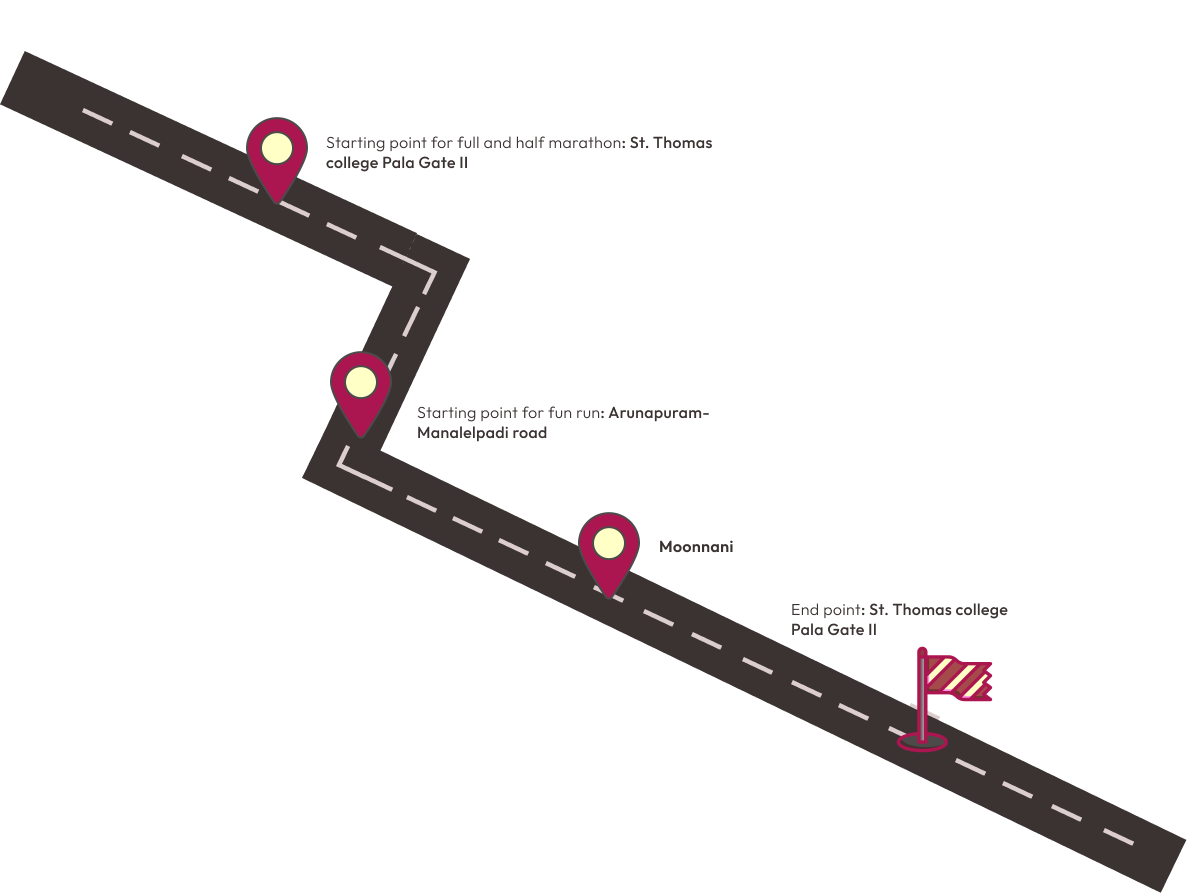
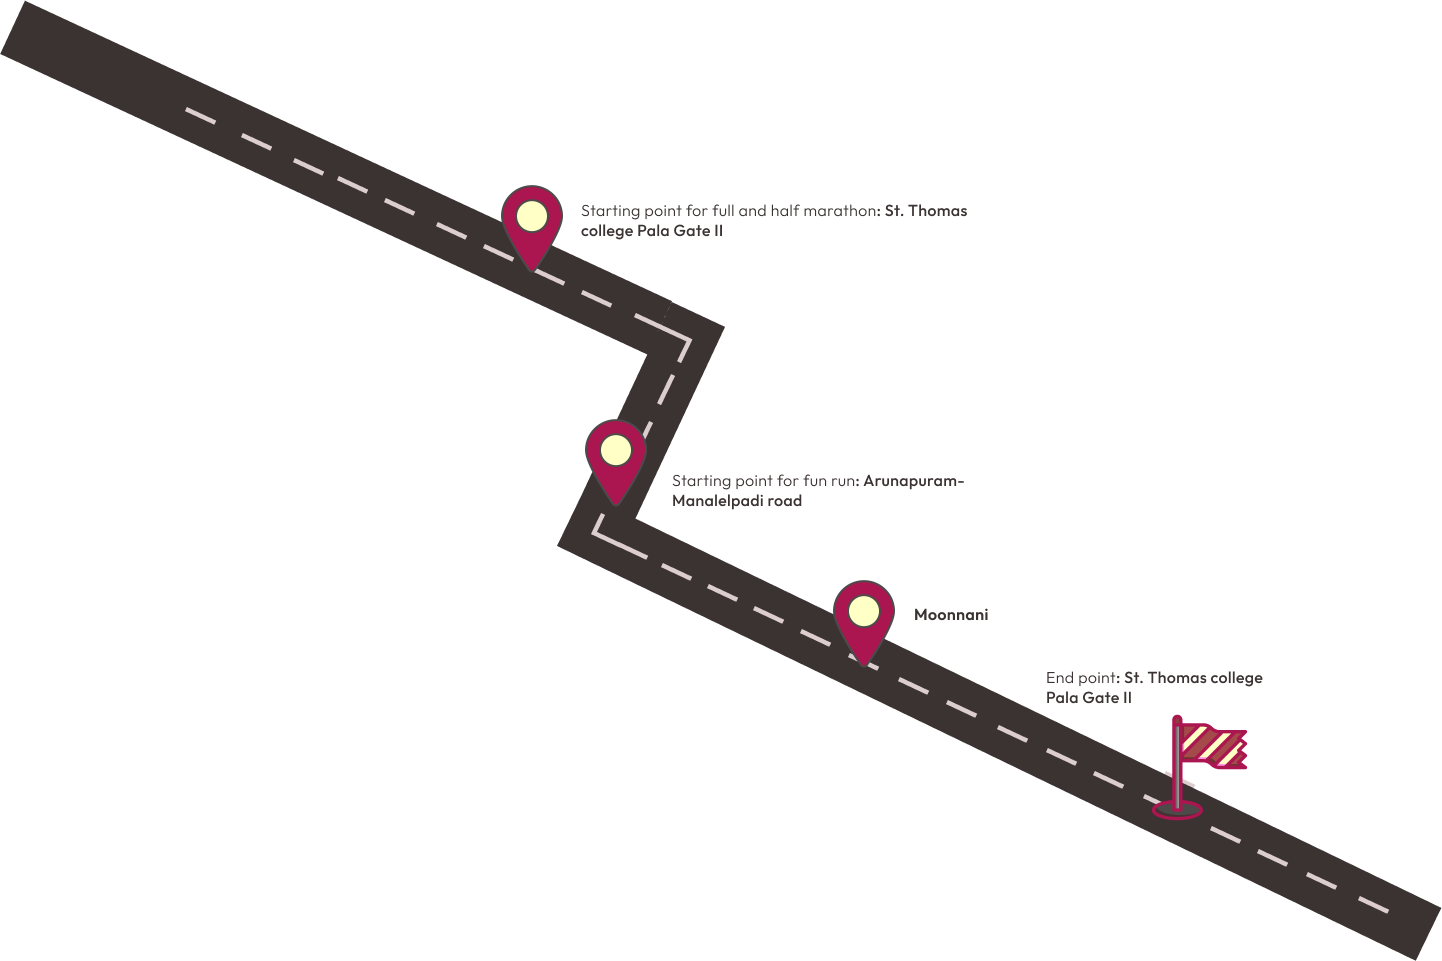
commit

Changed region(s): [[0.0, 0.0, 0.9975, 1.0], [0.9975, 0.9373, 1.0, 0.9675], [0.9663, 0.9071, 0.9975, 0.9373]]

diff --git a/client/src/pages/RoutePage.jsx b/client/src/pages/RoutePage.jsx
@@ -96,24 +96,26 @@ const RoutePage = () => {
 
         {/* Right Section - Images */}
         <div className="relative w-full mt-6 md:mt-0 md:pl-16">
-    <div className="hidden lg:block md:absolute md:right-[-64px] md:w-[calc(100%+64px)]">
-      <img
-        src={road}
-        alt="Route Map or Road Image"
-        className="w-full h-[80vh] rotate-35 object-cover z-30 mt-[-409px]  lg:block hidden"
-        draggable="false"
-      />
-    </div>
+  {/* Image visible only on screens wider than 1024px */}
+  <div className="hidden xl:block xl:absolute lg:right-[-64px] lg:w-[calc(100%+64px)] ">
+    <img
+      src={road}
+      alt="Route Map or Road Image"
+      className="w-full h-[80vh] object-cover z-30 mt-[-415px]"
+      draggable="false"
+    />
+  </div>
 
-          {/* Image for small screens */}
-          {/* <div className="block md:hidden">
-            <img
-              src={smRoad}
-              alt="Route Map or Road Image (Small)"
-              className="w-full h-20 object-cover  -mt-3"
-            />
-          </div> */}
-        </div>
+  {/* Optionally retain the small screen image if required */}
+  {/* <div className="block lg:hidden">
+    <img
+      src={smRoad}
+      alt="Route Map or Road Image (Small)"
+      className="w-full h-20 object-cover -mt-3"
+    />
+  </div> */}
+</div>
+
       </div>
     </div>
   );

diff --git a/client/src/components/Footer.jsx b/client/src/components/Footer.jsx
@@ -112,15 +112,24 @@ const Footer = () => {
         </div>
         
         {/* HULT Logo Section */}
-        <div className="mt-8 flex justify-center items-center text-sm">
-          Powered by
-          <img 
-            src={HULT} 
-            alt="HULT" 
-            className="h-4 object-contain ml-2"
-          />
+        
+        <div className="mt-10 flex justify-center items-center text-sm flex-wrap">
+  <a 
+    href="https://hultinfo.tech" 
+    target="_blank" 
+    rel="noopener noreferrer" 
+    className="flex items-center ml-2 transition sm:hover:brightness-75 sm:active:scale-95 sm:hover:cursor-pointer lg:hover:none"
+  >
+    <span className="mr-2">Powered by</span>
+    <img 
+      src={HULT} 
+      alt="HULT" 
+      className="h-4 object-contain"
+    />
+  </a>
+</div>
+
         </div>
-      </div>
     </footer>
   );
 };
